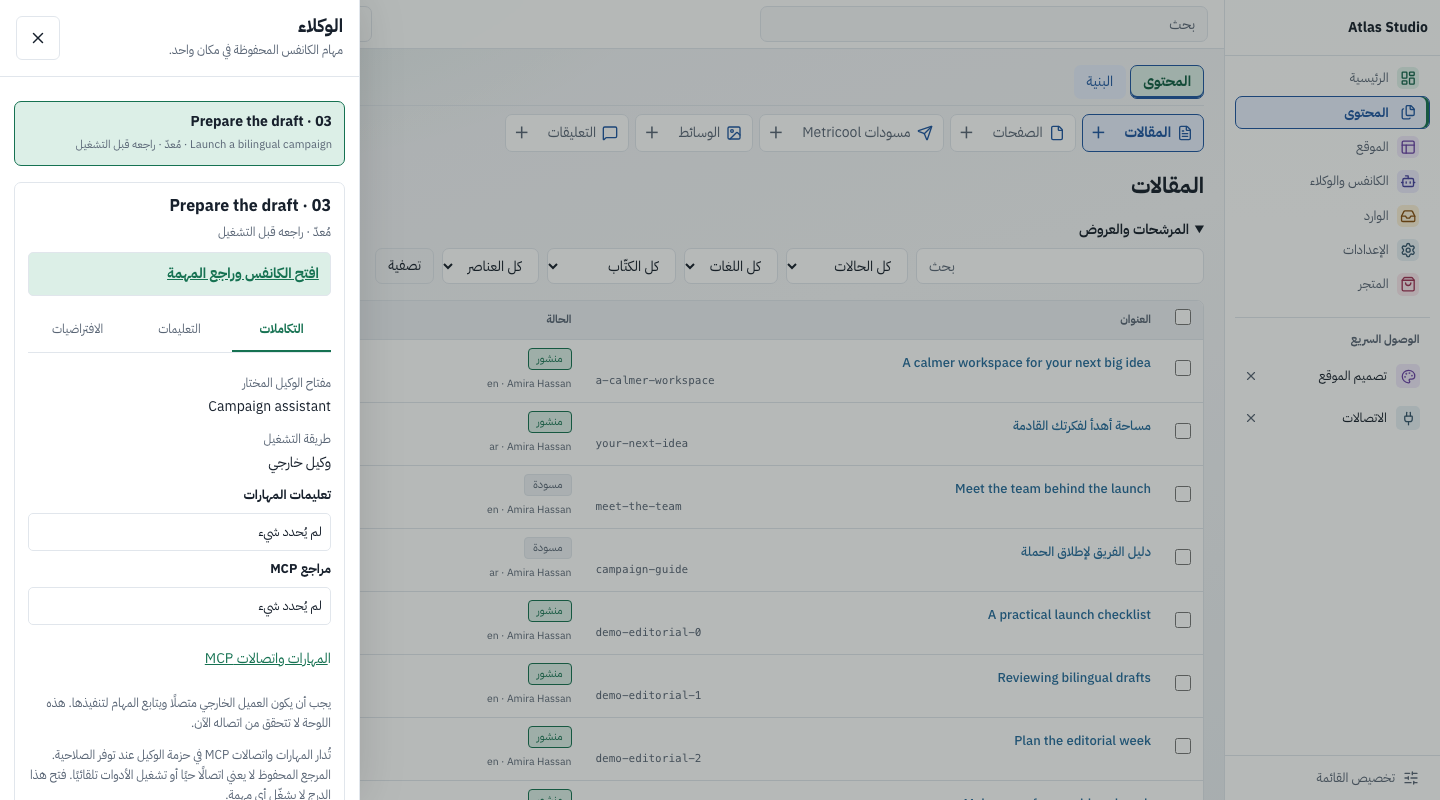
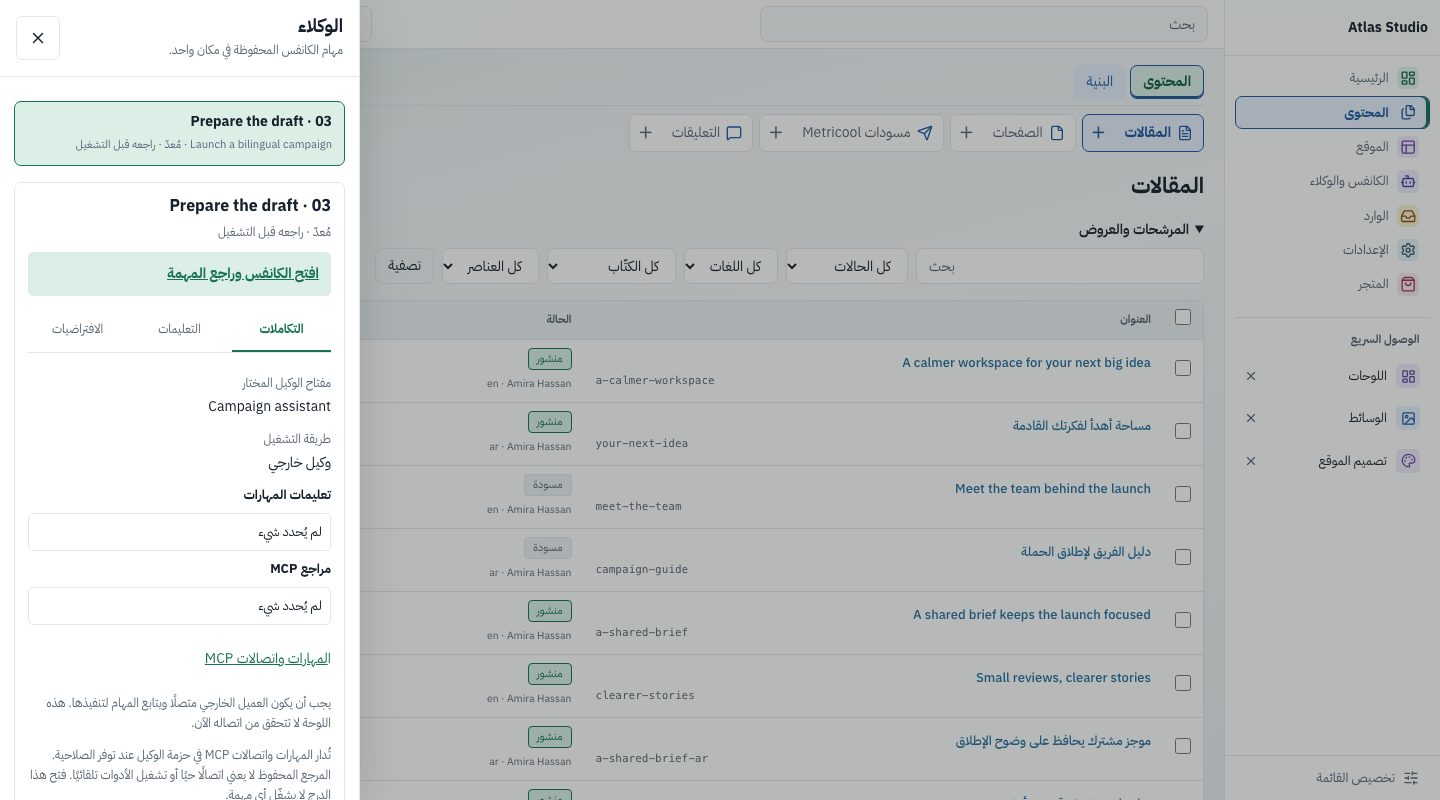
docs: refresh all README screenshots for GoRun 0.10
Capture the current release UI in one fictional bilingual workspace, including reviewed local-provider suggestions and honest extension installation methods. Preserve the canvas story and document the reproducible capture workflow.

diff --git a/e2e/tests/readme-screenshots.spec.ts b/e2e/tests/readme-screenshots.spec.ts
@@ -3,18 +3,24 @@
 import { test, expect, type Page } from '@playwright/test';
 import { randomUUID } from 'node:crypto';
 import { resolve } from 'node:path';
-import { mkdirSync } from 'node:fs';
+import { mkdirSync, readdirSync } from 'node:fs';
+import { createServer } from 'node:http';
 import { csrf, db, mcp, toolPayload, setLocale } from '../lib/helpers.ts';
 
-test('capture current README product screens with synthetic campaign data', async ({ page, request }) => {
+test('capture current README product screens with synthetic campaign data', async ({ page, request },testInfo) => {
   test.skip(process.env.README_SCREENSHOTS !== '1', 'Documentation capture is opt-in.');
-  test.setTimeout(180_000);
+  test.setTimeout(300_000);
   await page.setViewportSize({ width: 1600, height: 1040 });
   const output = resolve('..','assets','branding','screenshots');
   mkdirSync(output,{recursive:true});
+  const captured=new Set<string>(),secrets:string[]=[];
+  const expectedImages=[...readdirSync(output).filter(name=>name.endsWith('.png')),'canvas-ai-suggestions-en.png','canvas-ai-suggestions-ar-mobile.png','extensions-methods-en.png','extensions-methods-ar-mobile.png'];
   const database = db();
   database.prepare("UPDATE users SET name='Amira Hassan' WHERE email='admin@e2e.test'").run();
   database.prepare("INSERT INTO settings(key,value_json,updated_at) VALUES('site.title',?,?) ON CONFLICT(key) DO UPDATE SET value_json=excluded.value_json").run(JSON.stringify('Atlas Studio'),new Date().toISOString());
+  const owner=(database.prepare("SELECT id FROM users WHERE email='admin@e2e.test'").get() as any).id;
+  for(const [index,id] of ['canvases','media','site-builder'].entries())database.prepare('INSERT INTO admin_dashboard_pins(user_id,nav_id,position,created_at) VALUES(?,?,?,?)').run(owner,id,index,new Date().toISOString());
+  database.prepare("INSERT INTO settings(key,value_json,updated_at) VALUES('site.tagline',?,?) ON CONFLICT(key) DO UPDATE SET value_json=excluded.value_json").run(JSON.stringify('Thoughtful stories. Clear next steps.'),new Date().toISOString());
   database.close();
   await page.goto('/admin');
   await setLocale(page,'en');
@@ -25,17 +31,19 @@ test('capture current README product screens with synthetic campaign data', asyn
     await page.waitForLoadState('networkidle');
     await page.evaluate(()=>document.fonts.ready);
     await expect(page.locator('body')).not.toContainText('Internal Server Error');
+    await expect(page.locator('#k-plaintext,[data-reveal-secret]')).toHaveCount(0);
+    const html=await page.content();for(const secret of secrets)expect(html).not.toContain(secret);
     await page.mouse.move(1580,10);
-    await page.screenshot({path:resolve(output,name),fullPage});
+    await page.screenshot({path:resolve(output,name),fullPage});captured.add(name);
   }
   async function key(kind:'api'|'agent', name:string, scopes:string[]) {
     await page.goto('/admin/agents/keys');
-    await page.locator('.audit-key-create > summary').click();
+    await page.locator('#key-create > summary').click();
     await page.check(`input[name="kind"][value="${kind}"]`);await page.locator('[data-key-permissions] > summary').click();
   await page.fill('#k-name',name);
     for(const scope of scopes) await page.check(`input[name="scopes"][value="${scope}"]`);
     await page.locator('form[action="/admin/agents/keys"] button[type="submit"]').click();
-    const secret=await page.locator('#k-plaintext').inputValue();
+    const secret=await page.locator('#k-plaintext').inputValue();secrets.push(secret);
     await page.goto('/admin/agents/keys'); // one-time secret must not appear in a screenshot
     await expect(page.locator('#k-plaintext')).toHaveCount(0);
     return secret;
@@ -49,6 +57,12 @@ test('capture current README product screens with synthetic campaign data', asyn
     {title:'Meet the team behind the launch',slug:'meet-the-team',locale:'en',status:'draft',excerpt:'The people and small decisions that shape our work.',body:'<p>A behind-the-scenes story ready for editorial review.</p>'},
     {title:'دليل الفريق لإطلاق الحملة',slug:'campaign-guide',locale:'ar',status:'draft',excerpt:'قائمة مراجعة عملية قبل النشر.',body:'<p>راجِع الرسالة والروابط والصور قبل إطلاق الحملة.</p>'},
   ];
+  stories.push(
+    {title:'A shared brief keeps the launch focused',slug:'a-shared-brief',locale:'en',status:'published',excerpt:'An example editorial note: agree on the audience, the message and the next decision.',body:'<p>A fictional Atlas Studio example for this documentation site.</p><h2>Begin with the audience</h2><p>Write down who the story is for, what they need to know and which claims still need evidence. Keep the final publishing decision with your editor.</p>'},
+    {title:'Small reviews, clearer stories',slug:'clearer-stories',locale:'en',status:'published',excerpt:'Review language, links and source material before a draft becomes a public page.',body:'<p>A fictional Atlas Studio example about a careful editorial workflow.</p><h2>Make review practical</h2><p>Read the draft on mobile, check every link and compare translated text with the approved source. A short checklist makes the next step clear.</p>'},
+    {title:'موجز مشترك يحافظ على وضوح الإطلاق',slug:'a-shared-brief-ar',locale:'ar',status:'published',excerpt:'ملاحظة تحريرية توضيحية: اتفق على الجمهور والرسالة والقرار التالي.',body:'<p>مثال خيالي من أطلس ستوديو لتوثيق القالب.</p><h2>ابدأ بالجمهور</h2><p>حدّد لمن تكتب وما يحتاج إلى معرفته، وما الذي يحتاج إلى دليل. يبقى قرار النشر لدى المحرر.</p>'},
+    {title:'مراجعات صغيرة وقصص أوضح',slug:'clearer-stories-ar',locale:'ar',status:'published',excerpt:'راجع اللغة والروابط والمصادر قبل أن تصبح المسودة صفحة عامة.',body:'<p>مثال خيالي من أطلس ستوديو لسير عمل تحريري متأنٍّ.</p><h2>اجعل المراجعة عملية</h2><p>اقرأ المسودة على الهاتف، وافحص الروابط، وقارن الترجمة بالمصدر المعتمد. قائمة قصيرة تجعل الخطوة التالية واضحة.</p>'},
+  );
   const ids:string[]=[];
   for(const story of stories) {
     const response=await request.post('/api/v1/content',{headers,data:{type:'post',...story}});
@@ -61,6 +75,7 @@ test('capture current README product screens with synthetic campaign data', asyn
   const mediaDB=db();
   const demoMedia=mediaDB.prepare('SELECT id,url FROM media ORDER BY created_at DESC LIMIT 1').get() as any;
   const mediaID=demoMedia.id;
+  for(const id of ids.slice(4))mediaDB.prepare("UPDATE content SET published_at='2026-10-01T10:00:00Z' WHERE id=?").run(id);
   for(const id of ids.slice(0,2)) mediaDB.prepare('UPDATE content SET featured_media_id=? WHERE id=?').run(mediaID,id);
   mediaDB.close();
   await page.goto(`/admin/content/post/${ids[0]}`);
@@ -108,7 +123,7 @@ test('capture current README product screens with synthetic campaign data', asyn
   const csrfToken=await csrf(page);
   async function boardPost(suffix:string,data:any){
     const response=await request.post(boardPath+suffix,{headers:{'X-CSRF-Token':csrfToken},data});
-    expect(response.status(),await response.text()).toBeLessThan(300);
+    expect(response.status()).toBeLessThan(300);
     return response.json();
   }
   await boardPost('/document',{title:'Launch a bilingual campaign',version:1,cards,edges:[{from:sourceID,to:actorID},{from:promptID,to:actorID}]});
@@ -220,6 +235,48 @@ test('capture current README product screens with synthetic campaign data', asyn
   await expect(page.locator('#k-plaintext')).toHaveCount(0);
   await shot('agent-keys-en.png');
 
+  // Capture design and role catalog with the SAME identity and user as the canvas.
+  await page.goto('/admin/site-design');await expect(page).toHaveURL(/\/admin\/site-builder$/);
+  await page.locator('h1').click();await shot('site-design-build-en.png');
+  await page.goto('/admin/appearance/identity');await shot('site-design-identity-en.png');
+  await setLocale(page,'ar');await shot('site-design-identity-ar.png');
+  await page.setViewportSize({width:390,height:844});await shot('site-design-identity-ar-mobile.png',true);
+  await page.setViewportSize({width:1600,height:1040});await setLocale(page,'en');
+  await page.goto('/admin/agents/templates');await expect(page.locator('.agent-role-card')).toHaveCount(6);
+  await expect(page.locator('.agent-role-card details[open]')).toHaveCount(0);await shot('agent-roles-en.png');
+  await setLocale(page,'ar');await shot('agent-roles-ar.png');
+  await page.setViewportSize({width:390,height:844});await shot('agent-roles-ar-mobile.png',true);
+  await page.setViewportSize({width:1600,height:1040});await setLocale(page,'en');
+
+  // The three installation-method examples are capture-only saved metadata,
+  // never assertions of trust, official origin or working external services.
+  const extensionDB=db();
+  const extensionExamples=[['directory','editorial-handoff','Editorial handoff','تسليم المحتوى'],['upload','media-archive','Media archive','أرشيف الوسائط'],['legacy_unknown','catalog-sync','Catalog sync','مزامنة الدليل']];
+  for(const[source,slug,en,ar]of extensionExamples){const manifest={slug,name:{en,ar},version:'1.0.0',endpoint:{url:'https://example.test/demo-extension',auth:'hmac'},hooks:[],permissions:[]};extensionDB.prepare("INSERT INTO extensions(slug,name,version,manifest_json,status,endpoint_url,secret_enc,installed_at,install_source) VALUES(?,?,?,?,'installed',?,'',?,?)").run(slug,en,'1.0.0',JSON.stringify(manifest),manifest.endpoint.url,new Date().toISOString(),source);}extensionDB.close();
+  await page.goto('/admin/extensions');for(const[source,slug]of extensionExamples)await expect(page.locator(`[data-install-source="${source}"] [data-ext="${slug}"]`)).toHaveCount(1);
+  await shot('extensions-methods-en.png',true);await setLocale(page,'ar');await page.setViewportSize({width:390,height:844});await shot('extensions-methods-ar-mobile.png',true);
+  await page.setViewportSize({width:1600,height:1040});await setLocale(page,'en');
+
+  // A real local HTTP provider returns transparent scripted demo suggestions.
+  // Preview makes ZERO model calls; generation follows separate explicit consent.
+  let demoLocale='en',calls=0;const seenRequests:any[]=[];
+  const provider=createServer(async(req,res)=>{let body='';for await(const part of req)body+=part;seenRequests.push(JSON.parse(body));calls++;
+    const examples=demoLocale==='en'?[['Bilingual launch brief','Connect a product story and a clear brief; prepare a private draft for editorial review.'],['Content review checklist','Collect draft notes and review claims, links and language before publishing.'],['Weekly editorial plan','Turn approved topics into a short private plan; choose an executor later.']]:[['موجز إطلاق بلغتين','اجمع قصة المنتج والتعليمات، وجهّز مسودة خاصة يراجعها المحرر.'],['قائمة مراجعة المحتوى','راجع الادعاءات والروابط واللغة قبل اتخاذ قرار النشر.'],['خطة تحرير أسبوعية','حوّل الموضوعات المعتمدة إلى خطة خاصة، ثم اختر المنفّذ لاحقًا.']];
+    const suggestions=examples.map(([title,summary])=>({title,summary,cards:[{kind:'prompt',title:demoLocale==='en'?'Instructions for review':'تعليمات للمراجعة',body:demoLocale==='en'?'Prepare a private draft from approved context. Never publish or send automatically.':'جهّز مسودة خاصة من السياق المعتمد. لا تنشر أو ترسل تلقائيًا.',x:24,y:24},{kind:'agent',title:demoLocale==='en'?'Choose your assistant':'اختر مساعدك',body:'',x:420,y:24}],edges:[{from:0,to:1}]}));
+    res.writeHead(200,{'Content-Type':'application/json'});res.end(JSON.stringify({choices:[{message:{role:'assistant',content:JSON.stringify({suggestions})}}]}));});
+  await new Promise<void>(resolve=>provider.listen(0,'127.0.0.1',resolve));
+  try{
+    const address=provider.address() as {port:number};await page.goto('/admin/settings/ai');
+    const configured=await request.post('/admin/settings/ai',{form:{_csrf:await csrf(page),edit_token:await page.locator('[name=edit_token]').inputValue(),provider:'openai',base_url:`http://127.0.0.1:${address.port}/v1`,model:'local-scripted-demo'},maxRedirects:0});expect(configured.status()).toBe(303);
+    for(const locale of ['en','ar']){demoLocale=locale;await page.goto('/admin/canvases');await setLocale(page,locale);await page.setViewportSize({width:locale==='en'?1600:390,height:locale==='en'?1040:844});const ai=page.locator('[data-canvas-ai-suggestions]');await expect(ai).toBeVisible();const before=calls;
+      await ai.locator('[data-ai-refresh]').click();await expect(ai.locator('[data-ai-review]')).toBeVisible();expect(calls).toBe(before);await expect(ai.locator('[data-ai-preview]')).toContainText('local-scripted-demo');await expect(ai.locator('[data-ai-confirm]')).toBeDisabled();
+      const preview=JSON.parse(await ai.locator('[data-ai-preview]').innerText());await page.screenshot({path:testInfo.outputPath(`ai-exact-review-${locale}.png`),fullPage:true});
+      await ai.locator('[data-ai-consent]').check();await ai.locator('[data-ai-confirm]').click();await expect(ai.locator('[data-ai-grid] article')).toHaveCount(3);expect(calls).toBe(before+1);expect(seenRequests.at(-1).messages[0].content).toBe(preview.system);expect(seenRequests.at(-1).messages[1].content).toBe(preview.user);
+      await expect(ai.locator('[data-ai-review]')).toBeHidden();await shot(locale==='en'?'canvas-ai-suggestions-en.png':'canvas-ai-suggestions-ar-mobile.png',locale==='ar');
+    }
+  }finally{await new Promise<void>(resolve=>provider.close(()=>resolve()));const cleanup=db();cleanup.prepare("DELETE FROM settings WHERE key LIKE 'ai.%'").run();cleanup.close();}
+  await page.setViewportSize({width:1600,height:1040});await setLocale(page,'en');
+
   const created=await mcp(request,agent,'tools/call',{name:'create_content',arguments:{type:'post',title:'Campaign launch email · ready for review',body:'<p>A synthetic campaign draft awaiting the editor’s decision.</p>'}});
   const draftID=toolPayload(created.body.result).data.id;
   const pending=await mcp(request,agent,'tools/call',{name:'publish_content',arguments:{id:draftID}});
@@ -227,26 +284,27 @@ test('capture current README product screens with synthetic campaign data', asyn
   await setLocale(page,'ar');
   await page.goto('/admin/agents/approvals');
   await shot('approvals-ar.png');
-  // Public theme previews use a descriptive category title and neutral artwork,
-  // independently of the fictional campaign identity shown in admin screenshots.
+  // The public theme keeps the same fictional Atlas Studio identity, with neutral
+  // synthetic artwork; it is not a customer site or product availability claim.
   await page.goto('/admin/media');
   await page.locator('#media-file').setInputFiles(resolve('fixtures/theme-preview.svg'));
   await expect(page.locator('#media-results')).toContainText('theme-preview');
   const themeDB=db();
   const themeMedia=themeDB.prepare('SELECT id FROM media WHERE filename=? ORDER BY created_at DESC,rowid DESC LIMIT 1').get('theme-preview.svg') as any;
   for(const id of ids.slice(0,2))themeDB.prepare('UPDATE content SET featured_media_id=? WHERE id=?').run(themeMedia.id,id);
-  themeDB.prepare("UPDATE settings SET value_json=? WHERE key='site.title'").run(JSON.stringify('Reading & blog'));
+  themeDB.prepare("UPDATE settings SET value_json=? WHERE key='site.title'").run(JSON.stringify('Atlas Studio'));
   themeDB.close();
   await setLocale(page,'en');
   await page.goto('/en/');
   await expect(page.locator('html')).toHaveAttribute('lang','en');
-  await shot('theme-home-en.png');
+  await shot('theme-home-en.png',true);
   const arabicThemeDB=db();
-  arabicThemeDB.prepare("UPDATE settings SET value_json=? WHERE key='site.title'").run(JSON.stringify('مدونة وقراءة'));
+  arabicThemeDB.prepare("UPDATE settings SET value_json=? WHERE key='site.title'").run(JSON.stringify('Atlas Studio'));
   arabicThemeDB.close();
   await page.setViewportSize({width:390,height:844});
   await page.goto('/ar/post/your-next-idea');
   await expect(page.locator('html')).toHaveAttribute('lang','ar');
   await shot('theme-post-ar-mobile.png',true);
+  if(process.env.README_CANVAS_ONLY!=='1')expect([...new Set(expectedImages)].filter(name=>!captured.has(name))).toEqual([]);
   expect(errors).toEqual([]);
 });

diff --git a/README.ar.md b/README.ar.md
@@ -36,9 +36,15 @@
 
 تجمع القائمة الرئيسية الأدوات في ما يصل إلى ستة أقسام، وتظهر تبويبات الصفحات فوق الشاشة التي تستخدمها بحسب صلاحياتك. يضيف المتجر قسمًا سابعًا اختياريًا عند توفر أدوات تجارة مسموح بها. تحتفظ التصنيفات الملونة بأسمائها وحدود التحديد الواضحة. تبقى إعدادات الظهور والترتيب والتثبيت خاصة بحسابك؛ وتظل الأدوات المثبّتة متاحة ضمن «الوصول السريع» في القائمة الرئيسية، وتنعكس الواجهة للعربية.
 
-![أقسام GoRun 0.9 المنظمة وتبويبات المحتوى وشريط الوكلاء المقابل بالعربية](assets/branding/screenshots/admin-navigation-ar.png)
+![أقسام GoRun 0.10 المنظمة وتبويبات المحتوى وشريط الوكلاء المقابل بالعربية](assets/branding/screenshots/admin-navigation-ar.png)
 
 الصور من موقع تجريبي معزول بمحتوى خيالي. [قائمة الأقسام على الموبايل بالعربية](assets/branding/screenshots/admin-navigation-ar-mobile.png) · [دليل مساحة العمل](docs/ADMIN_WORKSPACE.md).
+
+تميّز شاشة الإضافات بين **من مجلد الخادم** و**ملف ZIP مرفوع** و**الطريقة القديمة غير المسجلة**. طريقة التثبيت لا تثبت مؤلف الحزمة أو سلامتها. [دليل طرق التثبيت](docs/EXTENSION-INSTALLATION-METHODS.md).
+
+![الإضافات في GoRun 0.10 مصنفة حسب طريقة التثبيت المسجلة مع إبقاء السجلات القديمة مجهولة الطريقة](assets/branding/screenshots/extensions-methods-en.png)
+
+[طرق تثبيت الإضافات بالعربية على الموبايل](assets/branding/screenshots/extensions-methods-ar-mobile.png).
 
 ### تصميم الموقع في مساحة واحدة
 
@@ -72,7 +78,7 @@ If a tool requests approval, report its request ID and wait for the decision.
 <table>
   <tr>
     <td width="50%"><img src="assets/branding/screenshots/agent-keys-en.png" alt="صفحة مفاتيح API في GoRun بالإنجليزية: مفاتيح وكلاء ومفتاح REST، لكل منها نطاقات محددة مثل content.view وcanvas.run" /></td>
-    <td width="50%"><img src="assets/branding/screenshots/approvals-ar.png" alt="قائمة موافقات الوكلاء في GoRun بالعربية: طلبا نشر من وكيل التحرير بانتظار القرار، وقرار موافقة سابق" /></td>
+    <td width="50%"><img src="assets/branding/screenshots/approvals-ar.png" alt="موافقة نشر تجريبية بالعربية تنتظر مراجعة المحرر" /></td>
   </tr>
   <tr>
     <td><strong>مفاتيح الوكلاء</strong><br />نطاقات محددة لكل مفتاح، وREST منفصل عن MCP.</td>
@@ -101,6 +107,14 @@ If a tool requests approval, report its request ID and wait for the decision.
 - **صلاحيات صريحة للوكلاء.** أنت تحدد العناصر التي يستطيع كل وكيل قراءتها أو الإضافة إليها أو التشغيل عليها في كل لوحة.
 
 تعرض بطاقة الوكيل أو المزود معرّفها وهوية الوكيل أو المزود المختار، مع رابط استقبال لحدث موقّع يطابق الأمر المحفوظ والتعليمات التي راجعتها. تبدأ قواعد الأحداث الواردة غير مفعلة، وتحتاج إلى مراجعة وتفعيل صريحين. ويظل الوكيل الخارجي بحاجة إلى عميل MCP يعمل لديه. [إعداد أحداث اللوحة](docs/CANVASES.md#incoming-events-on-agent-and-provider-cards).
+
+#### اقتراحات تبدأ بالمراجعة
+
+عند إعداد مزوّد ذكاء اصطناعي، راجع الوجهة والسياق الفعليين قبل تأكيد طلب اقتراحات للكانفس بصورة مستقلة. الاقتراح بداية غير مرتبطة بمنفّذ أو صلاحيات؛ تختارها أنت لاحقًا. [دليل الاقتراحات](docs/CANVAS-AI-SUGGESTIONS.md).
+
+![ثلاثة اقتراحات للكانفس في GoRun 0.10 بعد مراجعة وتأكيد صريحين](assets/branding/screenshots/canvas-ai-suggestions-en.png)
+
+[الاقتراحات بالعربية على الموبايل](assets/branding/screenshots/canvas-ai-suggestions-ar-mobile.png). هذه أمثلة توثيقية من مزوّد HTTP محلي مبرمج للاختبار، وليست ناتج نموذج فعلي أو دليلًا على توفر مزوّد خارجي.
 
 #### مهامك المحفوظة في متناولك
 

diff --git a/assets/branding/screenshots/README.md b/assets/branding/screenshots/README.md
@@ -1,27 +1,55 @@
-# Product screenshots
+# GoRun 0.10 product screenshots
 
-Captured from the actual GoRun application with fictional Atlas Studio content.
-The opt-in Playwright capture builds a fresh local server and uses isolated data;
-no production site, account, token or customer information is involved.
+All 31 canonical PNGs were captured together from the actual GoRun application
+at the released 0.10 source, using fictional Atlas Studio content and the sample
+editor Amira Hassan. One fresh local fixture supplies the editor, content list,
+site design, role catalog, canvas story, navigation, agent drawer, approvals,
+public theme and four new AI-suggestion/extension-method views. Existing user or
+production data is never opened or changed. These local images do not establish
+which application version runs on GoCloud or any other hosted site.
 
-From the repository root:
+From `e2e/`, with a supported Node runtime and Go available:
 
 ```sh
-npm ci --prefix e2e
-npx --prefix e2e playwright install chromium
-README_SCREENSHOTS=1 npm --prefix e2e test -- readme-screenshots.spec.ts --project=chromium
+npm ci
+npx playwright install chromium
+README_SCREENSHOTS=1 npm test -- tests/readme-screenshots.spec.ts --project=chromium
 ```
 
-The fixture uploads its own SVG, creates English and Arabic articles, opens the
-real editor and builder, creates scoped REST/agent keys, and runs the canvas
-review/grant/request/context/append workflow. A local test client supplies an
-illustrative bilingual response through MCP; no model output or provider
-connection is fabricated. The resulting note keeps its recorded provenance.
-One-time credentials are cleared before capturing the API-key page. An actual
-pending publishing approval is generated for the approval-list screenshot.
+The opt-in capture boots a fresh temporary server, uploads repository-owned SVG
+artwork, creates English/Arabic articles and a real builder page, and generates
+scoped REST/agent keys. It pins Canvases, Media and Site design for the same
+personal Quick access view throughout. The four site-design and three role
+screens are captured in this fixture too, rather than copied from another run.
+The recipe verifies that every canonical PNG was refreshed.
 
-The three canvas story frames show selected input, outbound-context review,
-and the separate returned draft. Additional Arabic and mobile frames support
-manual layout inspection. Review every generated image before committing it,
-including text clipping, card overlap, locale, media loading and secret leakage.
-These are documentation images, not pixel snapshots or performance evidence.
+The three canvas story frames show selected input, actual outbound-context review
+and a separate private result. A local external test client supplies the
+illustrative bilingual response through the real grant/request/context/append
+MCP workflow. The note keeps that recorded provenance; it is not a live model or
+model-quality benchmark. Opening the drawer is checked to create no extra runs;
+configured state is never relabelled online. One-time key and webhook signing
+secrets stay out of screenshots. The recipe checks known plaintext keys against
+page HTML before every capture and requires all one-time reveal panels absent.
+
+The four new 0.10 views are:
+
+- `canvas-ai-suggestions-en.png` and `canvas-ai-suggestions-ar-mobile.png`: three
+  illustrative suggestions returned by a scripted local HTTP provider. The real
+  application shows the exact destination/context preview, makes zero provider
+  calls at preview, then sends that exact payload only after a separate checked
+  confirmation. Exact-review evidence is saved to Playwright's test output, not
+  added as an oversized README image. No actual model/provider availability is
+  claimed, and no suggestion is applied or run during this capture.
+- `extensions-methods-en.png` and `extensions-methods-ar-mobile.png`: fictional
+  installed records showing server-directory, uploaded-ZIP and legacy-unknown
+  methods. These capture-only records are not claims of official origin, package
+  trust, endpoint reachability or successful external-service integration.
+
+An actual pending publishing approval is generated for the approvals screenshot.
+Public theme previews retain the same Atlas Studio name and synthetic artwork.
+Review every generated image before committing it: locale, clipped text, mobile
+scrolling, canvas overlap, media loading and credential leakage. Images are
+ordinary browser screenshots, not composited UI, performance measurements or
+pixel-perfect test baselines. The capture does not deploy software or publish a
+site.

diff --git a/README.md b/README.md
@@ -70,7 +70,7 @@ GoRun Edge is a separate, experimental Workers-based edition with its own D1/R2 
 
 Up to six primary sections keep related tools together, with contextual page tabs above the screen you are using. You see the tools your permissions allow; Store adds an optional seventh section when permitted commerce tools are available. Colored categories keep their text labels and selected borders. Personal visibility, navigation order and dashboard pins stay yours; pinned tools remain within reach under **Quick access** in the main sidebar.
 
-![GoRun 0.9 content workspace with grouped sections, contextual page tabs and the opposite-side agents rail](assets/branding/screenshots/admin-navigation-en.png)
+![GoRun 0.10 content workspace with grouped sections, contextual page tabs and the opposite-side agents rail](assets/branding/screenshots/admin-navigation-en.png)
 
 The screenshots use an isolated demo site with fictional content. The layout mirrors for Arabic and stays usable on mobile. [Arabic mobile menu](assets/branding/screenshots/admin-navigation-ar-mobile.png) · [Workspace guide](docs/ADMIN_WORKSPACE.md).
 
@@ -107,6 +107,12 @@ Start with a bundled theme, create pages with section-based layouts, and preview
 Connect an MCP client with an **AI agent** key. Its scopes are bounded by its owner's permissions; publishing, deleting and changing sensitive settings require human approval by default. REST integration keys are separate from agent keys.
 
 Canvases bring selected content, instructions and agent results into one workspace. Results become private notes for review and do not publish content automatically. Configure your provider or agent connection before running it.
+
+With a configured AI provider, review the exact destination and site context before separately confirming a request for canvas suggestions. Suggestions create an unbound starting point; choose its executor and permissions yourself. [AI suggestion workflow](docs/CANVAS-AI-SUGGESTIONS.md).
+
+![GoRun 0.10 showing three canvas suggestions after explicit review and confirmation](assets/branding/screenshots/canvas-ai-suggestions-en.png)
+
+[Arabic suggestions on mobile](assets/branding/screenshots/canvas-ai-suggestions-ar-mobile.png). These documentation examples come from a scripted local HTTP provider, not a live model or evidence of provider availability.
 
 Each agent or provider card shows its own ID and selected agent/provider identity, with a signed webhook matched to a saved command and reviewed instructions. Incoming-event rules start disabled and require explicit review and enablement; external agents still need their MCP client running. [Configure canvas events](docs/CANVASES.md#incoming-events-on-agent-and-provider-cards).
 
@@ -149,6 +155,12 @@ Switch between **Workflow**, **Grid** and **List** views. Arrange cards using th
 ## Operate with confidence
 
 Schedule daily or weekly local backups, track verified success and storage, and inspect failure alerts. Preview a disposable, read-only restore on localhost before restoring into a new directory. `gorun doctor` diagnoses an existing site without migrating or repairing it.
+
+Extension screens distinguish **Server directory**, **Uploaded ZIP** and **Legacy: method not recorded**. An installation method does not establish a package's origin or safety. [Installation-method guide](docs/EXTENSION-INSTALLATION-METHODS.md).
+
+![GoRun 0.10 extension directory grouped by recorded installation method, including unknown legacy records](assets/branding/screenshots/extensions-methods-en.png)
+
+[Arabic extension methods on mobile](assets/branding/screenshots/extensions-methods-ar-mobile.png).
 
 [Backups and recovery](docs/BACKUPS.md) · [Local diagnostics](docs/local-start.md#diagnose-a-local-site)
 
